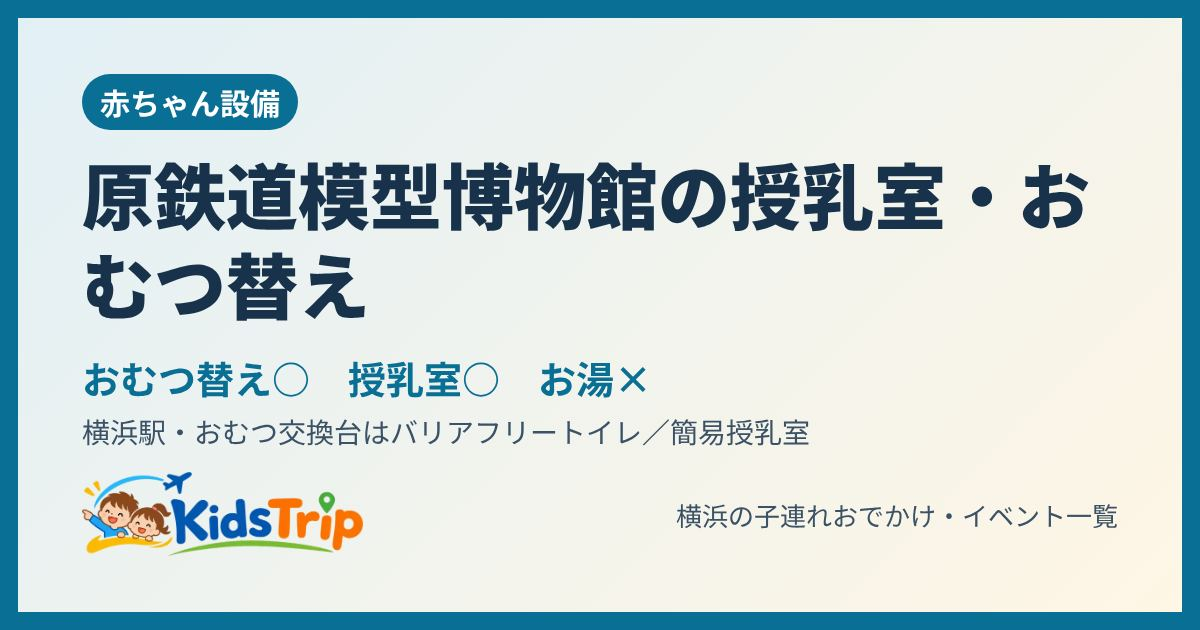
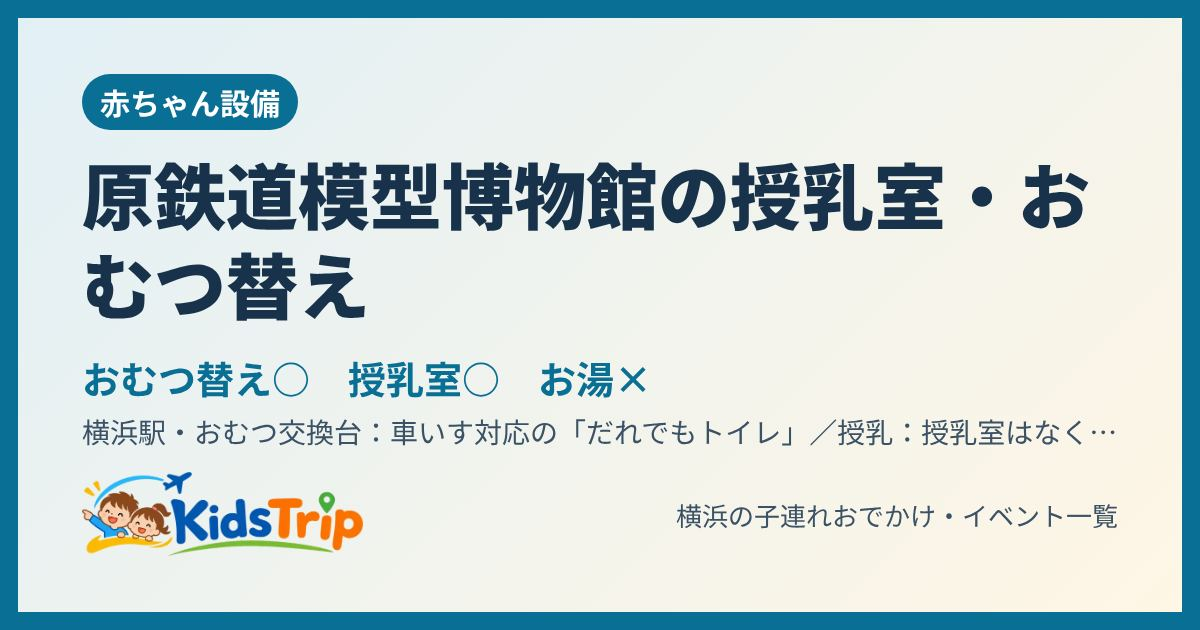
原鉄道模型博物館：簡易授乳スペース・だれでもトイレのおむつ交換台・ベビーキープを公式の画面で確認（利用者の画面）
Claude-Session: https://claude.ai/code/session_014AtJ2g3ghW1boxsW7syVwL

Changed region(s): [[0.3083, 0.6635, 0.74, 0.7238], [0.7708, 0.6635, 0.8942, 0.7238]]

diff --git a/spot/uxzm6a/index.html b/spot/uxzm6a/index.html
@@ -4,12 +4,12 @@
 <meta charset="utf-8">
 <meta name="viewport" content="width=device-width, initial-scale=1">
 <title>原鉄道模型博物館の授乳室・おむつ替え・お湯｜KidsTrip</title>
-<meta name="description" content="原鉄道模型博物館（横浜駅）の授乳室・おむつ替えの場所：おむつ交換台はバリアフリートイレ／簡易授乳室。おむつ替え・授乳室あり。">
+<meta name="description" content="原鉄道模型博物館（横浜駅）の授乳室・おむつ替えの場所：おむつ交換台：車いす対応の「だれでもトイレ」／授乳：授乳室はなく簡易授乳スペース（エントランスの赤いジャンパーのスタッフに声をかける）。おむつ替え・授乳室あり。">
 <link rel="canonical" href="https://kidstrip.jp/spot/uxzm6a/">
 <meta property="og:type" content="article">
 <meta property="og:site_name" content="KidsTrip">
 <meta property="og:title" content="原鉄道模型博物館の授乳室・おむつ替え・お湯｜KidsTrip">
-<meta property="og:description" content="原鉄道模型博物館（横浜駅）の授乳室・おむつ替えの場所：おむつ交換台はバリアフリートイレ／簡易授乳室。おむつ替え・授乳室あり。">
+<meta property="og:description" content="原鉄道模型博物館（横浜駅）の授乳室・おむつ替えの場所：おむつ交換台：車いす対応の「だれでもトイレ」／授乳：授乳室はなく簡易授乳スペース（エントランスの赤いジャンパーのスタッフに声をかける）。おむつ替え・授乳室あり。">
 <meta property="og:url" content="https://kidstrip.jp/spot/uxzm6a/">
 <meta property="og:image" content="https://kidstrip.jp/og/spot-uxzm6a.jpg">
 <meta property="og:image:width" content="1200">
@@ -21,7 +21,7 @@
 <link rel="icon" href="../../img/favicon.png">
 <link rel="apple-touch-icon" href="../../img/apple-touch-icon.png">
 <script type="application/ld+json">{"@context": "https://schema.org", "@type": "BreadcrumbList", "itemListElement": [{"@type": "ListItem", "position": 1, "name": "トップ", "item": "https://kidstrip.jp/"}, {"@type": "ListItem", "position": 2, "name": "ごはん・おむつ", "item": "https://kidstrip.jp/#foodall"}, {"@type": "ListItem", "position": 3, "name": "原鉄道模型博物館"}]}</script>
-<script type="application/ld+json">{"@context": "https://schema.org", "@type": "Place", "name": "原鉄道模型博物館", "description": "原鉄道模型博物館（横浜駅）の授乳室・おむつ替えの場所：おむつ交換台はバリアフリートイレ／簡易授乳室。おむつ替え・授乳室あり。", "url": "https://kidstrip.jp/spot/uxzm6a/", "image": ["https://kidstrip.jp/og/spot-uxzm6a.jpg"], "address": {"@type": "PostalAddress", "addressLocality": "横浜市", "addressRegion": "神奈川県", "addressCountry": "JP"}, "amenityFeature": [{"@type": "LocationFeatureSpecification", "name": "おむつ替え", "value": true}, {"@type": "LocationFeatureSpecification", "name": "授乳室", "value": true}, {"@type": "LocationFeatureSpecification", "name": "調乳のお湯", "value": false}], "publicAccess": true, "sameAs": "https://www.welcome.city.yokohama.jp/accessibility/spot/details.php?sid=773", "hasMap": "https://www.google.com/maps/search/?api=1&query=原鉄道模型博物館"}</script>
+<script type="application/ld+json">{"@context": "https://schema.org", "@type": "Place", "name": "原鉄道模型博物館", "description": "原鉄道模型博物館（横浜駅）の授乳室・おむつ替えの場所：おむつ交換台：車いす対応の「だれでもトイレ」／授乳：授乳室はなく簡易授乳スペース（エントランスの赤いジャンパーのスタッフに声をかける）。おむつ替え・授乳室あり。", "url": "https://kidstrip.jp/spot/uxzm6a/", "image": ["https://kidstrip.jp/og/spot-uxzm6a.jpg"], "address": {"@type": "PostalAddress", "addressLocality": "横浜市", "addressRegion": "神奈川県", "addressCountry": "JP"}, "amenityFeature": [{"@type": "LocationFeatureSpecification", "name": "おむつ替え", "value": true}, {"@type": "LocationFeatureSpecification", "name": "授乳室", "value": true}, {"@type": "LocationFeatureSpecification", "name": "調乳のお湯", "value": false}], "publicAccess": true, "sameAs": "https://www.hara-mrm.com/", "hasMap": "https://www.google.com/maps/search/?api=1&query=原鉄道模型博物館"}</script>
 <style>
 .gkcmp th[scope=row]{white-space:nowrap}.gkcmp td{font-size:.92em}
 .gk{list-style:none;padding:0}.gk li{border:1px solid #e5e5e5;border-radius:10px;padding:10px 12px;margin:8px 0;line-height:1.7}.gk h3{margin:0 0 2px;font-size:1.02em}
@@ -52,15 +52,15 @@ footer{margin:28px 0 8px;font-size:12px;color:var(--muted)}
 <h1>原鉄道模型博物館の授乳室・おむつ替え・お湯</h1>
 <table class="bm"><thead><tr><th>場所</th><th>おむつ替え</th><th>授乳室</th><th>お湯</th><th>レンジ</th></tr></thead><tbody><tr><th>原鉄道模型博物館</th><td class="y">○</td><td class="y">○</td><td class="n">×</td><td class="u">？</td></tr></tbody></table>
 <p class="legend">○ あり　× なし　？ 調べた範囲で確認できず</p>
-<table class="info"><tr><th>場所</th><td>おむつ交換台はバリアフリートイレ／簡易授乳室</td></tr><tr><th>エリア</th><td>横浜駅</td></tr></table>
-
-<p class="sum">調乳用のお湯とベビーカーの貸出・置き場はありません。</p>
-<p class="small">出典：横浜市観光情報サイト バリアフリー情報（2024年10月更新）</p>
-<div class="btns"><a class="btn main" data-act="official" href="https://www.welcome.city.yokohama.jp/accessibility/spot/details.php?sid=773" target="_blank" rel="noopener">公式ページで確認</a>
+<table class="info"><tr><th>場所</th><td>おむつ交換台：車いす対応の「だれでもトイレ」／授乳：授乳室はなく簡易授乳スペース（エントランスの赤いジャンパーのスタッフに声をかける）</td></tr><tr><th>エリア</th><td>横浜駅</td></tr></table>
+<ul class="chips"><li>ベビーキープ（トイレの個室）</li><li>だれでもトイレ（車いす対応・おむつ交換台つき）</li></ul>
+<p class="sum">館内に授乳室はなく、簡易授乳スペースを用意している。使いたいときはエントランスにいる赤いジャンパーのスタッフに声をかける。おむつ交換台は車いす対応の「だれでもトイレ」にあり、男女どちらでも使える。トイレの個室にベビーキープも。調乳用のお湯とベビーカーの貸出・置き場はない（市のバリアフリー情報）。電子レンジは公式ページに記載なし。</p>
+<p class="small">出典：原鉄道模型博物館 公式（営業情報・アクセス／施設案内。利用者が送った公式の画面、2026年11月）。お湯・ベビーカーは横浜市観光情報サイト バリアフリー情報（2024年10月更新）</p>
+<div class="btns"><a class="btn main" data-act="official" href="https://www.hara-mrm.com/" target="_blank" rel="noopener">公式ページで確認</a>
 <a class="btn" href="https://www.google.com/maps/search/?api=1&amp;query=原鉄道模型博物館" target="_blank" rel="noopener">地図で見る</a>
 <button type="button" class="btn" data-share="1">🔗 リンクを送る・コピー</button></div>
 </article>
-<h2>パパも使える？</h2><p><b>🚻 多機能トイレOK</b>　おむつ交換台はバリアフリートイレ（だれでも入れる）</p>
+<h2>パパも使える？</h2><p><b>🚻 多機能トイレOK</b>　おむつ交換台は車いす対応の「だれでもトイレ」（男女とも使える）</p>
 <h2>歩いて10分以内の子連れで入りやすいごはん</h2><ul class="links food"><li><b>鎌倉海街テーブル（そごう横浜 10F）</b>（和食）　ベビーカーで約5分<span class="tag">ボーネルンド監修キッズスペース</span><span class="tag">キッズスペース付き個室</span><span class="tag">駅直結</span></li><li><b>京都石塀小路 豆ちゃ 横浜（ルミネ横浜 7F）</b>（和食）　ベビーカーで約5分<span class="tag">半個室・BOX席</span><span class="tag">和食</span></li><li><b>ブリル飯店（ルミネ横浜 7F）</b>（中華）　ベビーカーで約5分<span class="tag">中華</span></li><li><b>ジャムおじさんのパン工場（アンパンマンこどもミュージアム 1F）</b>（キャラクターパン・カフェ）　ベビーカーで約6分<span class="tag">テイクアウト可</span><span class="tag">卵・乳不使用のパンあり（平日）</span><span class="tag">アレルギー28品目を表示</span></li><li><b>アンパンマンレストラン（アンパンマンこどもミュージアム）</b>（洋食レストラン）　ベビーカーで約6分<span class="tag">支払い：現金・クレジットカード（電子マネー・QRコードは使えない）</span><span class="tag">キッズメニュー</span><span class="tag">低アレルゲンのアンパンマンランチ1,200円（特定原材料8品目不使用）</span></li><li><b>ハンバーガーやさん（アンパンマンこどもミュージアム）</b>（ハンバーガー）　ベビーカーで約6分<span class="tag">支払い：現金・カード・電子マネー・QRコード</span><span class="tag">キッズメニュー</span><span class="tag">スーベニアプレート付きのバーガー3,000円</span></li><li><b>うどんやさん（アンパンマンこどもミュージアム）</b>（うどん）　ベビーカーで約6分<span class="tag">支払い：現金・カード・電子マネー・QRコード</span><span class="tag">キッズメニュー</span><span class="tag">持ち帰れるどんぶり付き</span></li><li><b>ごはんやさん（アンパンマンこどもミュージアム）</b>（和食・丼）　ベビーカーで約6分<span class="tag">支払い：現金・カード・電子マネー（QRコードは使えない）</span><span class="tag">子ども向けメニュー（おむすび・おかゆなど）</span><span class="tag">飲食は施設の中で</span></li><li><b>FOOD&amp;TIME ISETAN YOKOHAMA（ジョイナス地下1階）</b>（フードコート）　ベビーカーで約10分</li></ul><p class="small">時間はベビーカーで歩いたときのめやす（直線距離から計算）。メニューや営業時間は行く前にお店で確かめてください。</p>
 <h2>歩いて15分以内でベビー服・子ども服・靴が買えるお店</h2><ul class="links food"><li><a href="https://www.takashimaya.co.jp/yokohama/" target="_blank" rel="noopener">高島屋横浜店 6F ベビー・こども服フロア</a><span class="tag">ベビー・キッズ・子どもの靴</span>　10:00〜20:00（6階の学校制服は19:00最終受付。公式の営業時間ページ、利用者が送った画面で確認・2026年11月）　ベビーカーで約10分</li></ul><p class="small">急なおもらし・汚れの着替えや、靴を忘れたときに。時間は直線距離からのめやす。在庫・営業時間はお店で確かめてください（出典：各チェーン公式の店舗検索）。</p>
 <h2>同じエリアのほかの赤ちゃん設備</h2><table class="bm"><thead><tr><th>場所</th><th>おむつ替え</th><th>授乳室</th><th>お湯</th><th>レンジ</th></tr></thead><tbody><tr><th scope="row"><a href="/spot/1wazjhw/">横浜ポルタ</a></th><td class="y">○</td><td class="y">○</td><td class="u">？</td><td class="u">？</td></tr><tr><th scope="row"><a href="/spot/1iwprnc/">横浜ビブレ</a></th><td class="y">○</td><td class="y">○</td><td class="u">？</td><td class="u">？</td></tr><tr><th scope="row"><a href="/spot/1ixhw31/">ヨドバシ横浜</a></th><td class="y">○</td><td class="y">○</td><td class="y">○</td><td class="u">？</td></tr><tr><th scope="row"><a href="/spot/fviw25/">横浜スカイビル</a></th><td class="y">○</td><td class="u">？</td><td class="u">？</td><td class="u">？</td></tr><tr><th scope="row"><a href="/spot/1blkzom/">シァル横浜</a></th><td class="u">？</td><td class="y">○</td><td class="u">？</td><td class="u">？</td></tr><tr><th scope="row"><a href="/spot/14ws7oy/">横浜市民防災センター</a></th><td class="y">○</td><td class="y">○</td><td class="n">×</td><td class="u">？</td></tr><tr><th scope="row"><a href="/spot/1234fgp/">日産 グローバル本社ギャラリー</a></th><td class="y">○</td><td class="y">○</td><td class="y">○</td><td class="u">？</td></tr><tr><th scope="row"><a href="/spot/12zefgy/">横浜シティ・エア・ターミナル</a></th><td class="y">○</td><td class="n">×</td><td class="u">？</td><td class="u">？</td></tr><tr><th scope="row"><a href="/spot/ttyij6/">アソビル</a></th><td class="y">○</td><td class="y">○</td><td class="y">○</td><td class="u">？</td></tr><tr><th scope="row"><a href="/spot/14xdm7p/">横浜モアーズ</a></th><td class="y">○</td><td class="y">○</td><td class="y">○</td><td class="u">？</td></tr><tr><th scope="row"><a href="/spot/lg4yuc/">ニュウマン横浜</a></th><td class="y">○</td><td class="y">○</td><td class="n">×</td><td class="u">？</td></tr><tr><th scope="row"><a href="/spot/t7377s/">ルミネ横浜</a></th><td class="y">○</td><td class="y">○</td><td class="y">○</td><td class="y">○</td></tr><tr><th scope="row"><a href="/spot/1kkyo59/">そごう横浜店</a></th><td class="y">○</td><td class="y">○</td><td class="y">○</td><td class="u">？</td></tr><tr><th scope="row"><a href="/spot/17bif9m/">高島屋横浜店 6F</a></th><td class="y">○</td><td class="y">○</td><td class="y">○</td><td class="y">○</td></tr><tr><th scope="row"><a href="/spot/npxufp/">横浜ベイクォーター</a></th><td class="y">○</td><td class="y">○</td><td class="y">○</td><td class="y">○</td></tr><tr><th scope="row"><a href="/spot/14ubomp/">CeeU Yokohama</a></th><td class="u">？</td><td class="u">？</td><td class="u">？</td><td class="u">？</td></tr><tr><th scope="row"><a href="/spot/2xm8ap/">ジョイナス</a></th><td class="y">○</td><td class="y">○</td><td class="y">○</td><td class="u">？</td></tr></tbody></table><p class="legend">○ あり　× なし　？ 調べた範囲で確認できず</p>

diff --git a/js/data.js b/js/data.js
@@ -645,8 +645,8 @@ const BABY = {
       note:"1F・9F・10F・28F・29Fに、おむつ替えができるベビーベッドがある。授乳室・お湯・電子レンジ・ベビーカー貸出は公式ページに記載なし。授乳はそごう横浜店やポルタの授乳室で。8Fにポケモンセンターヨコハマ（2026年3月1日からマルイシティ横浜に代わってスカイビルの店に。10:30〜20:30・1月1日のほか無休。混む日は時間帯別の入場整理券を9:30から配布）・キデイランド・Sanrio・プリキュア プリティストアがある。", url:"https://www.yokohama-sky.co.jp/floorservice/", src:"横浜スカイビル 公式（フロアサービス・8Fフロアガイド）・ポケモンセンターヨコハマ 公式（2026年11月19日確認）" },
     { n:"シァル横浜（横浜駅ビル）", where:"ANNEX 3F 授乳室", d:null, f:true, w:null, ex:["多目的トイレ（B1・B3・ANNEX 3F）"],
       note:"授乳室はANNEX 3F。お湯・電子レンジ・おむつ替えの場所は公式ページに記載なし。", url:"https://www.jryscc.co.jp/cial/yokohama/service/", src:"シァル横浜 公式（営業時間等・2026年11月19日確認）" },
-    { n:"原鉄道模型博物館", where:"おむつ交換台はバリアフリートイレ／簡易授乳室", d:true, f:true, w:false, ex:[],
-      note:"調乳用のお湯とベビーカーの貸出・置き場はありません。", url:"https://www.welcome.city.yokohama.jp/accessibility/spot/details.php?sid=773", src:"横浜市観光情報サイト バリアフリー情報（2024年10月更新）" },
+    { n:"原鉄道模型博物館", where:"おむつ交換台：車いす対応の「だれでもトイレ」／授乳：授乳室はなく簡易授乳スペース（エントランスの赤いジャンパーのスタッフに声をかける）", d:true, f:true, w:false, ex:["ベビーキープ（トイレの個室）","だれでもトイレ（車いす対応・おむつ交換台つき）"],
+      note:"館内に授乳室はなく、簡易授乳スペースを用意している。使いたいときはエントランスにいる赤いジャンパーのスタッフに声をかける。おむつ交換台は車いす対応の「だれでもトイレ」にあり、男女どちらでも使える。トイレの個室にベビーキープも。調乳用のお湯とベビーカーの貸出・置き場はない（市のバリアフリー情報）。電子レンジは公式ページに記載なし。", url:"https://www.hara-mrm.com/", src:"原鉄道模型博物館 公式（営業情報・アクセス／施設案内。利用者が送った公式の画面、2026年11月）。お湯・ベビーカーは横浜市観光情報サイト バリアフリー情報（2024年10月更新）" },
     { n:"横浜市民防災センター", where:"おむつ交換台あり／授乳室あり", d:true, f:true, w:false, ex:["乳幼児用いす付きの個室","ベビーカー置き場あり"],
       note:"調乳用のお湯はありません。地震や火事を体験して学べる。", url:"https://www.welcome.city.yokohama.jp/accessibility/spot/details.php?sid=805", src:"横浜市観光情報サイト バリアフリー情報（2024年9月更新）" },
     { n:"日産 グローバル本社ギャラリー", where:"おむつ交換台は授乳室と多機能トイレに計2台／授乳室あり", d:true, f:true, w:true, ex:["乳幼児用いす付きの個室"],
@@ -849,7 +849,7 @@ const PAPA = {
   "野毛山動物園": { v:"men", t:"男性トイレ・バリアフリートイレにもおむつ交換台あり", src:"横浜市観光情報 バリアフリー情報（2026年8月更新）" },
   "パシフィコ横浜": { v:"men", t:"展示ホール2Fの赤ちゃん休憩室とmamaroは男女とも利用可。ノース1Fはおむつ交換台・シンクまで男性も入れる（授乳エリアは不可）。男性トイレにもおむつ交換台あり（市の情報）", src:"パシフィコ横浜 公式（2026年11月）・横浜市観光情報 バリアフリー情報（2024年11月更新）" },
   "はまぎん こども宇宙科学館（洋光台）": { v:"multi", t:"多目的トイレにおむつ交換台3台（だれでも入れる）", src:"横浜市観光情報 バリアフリー情報（2024年9月更新）" },
-  "原鉄道模型博物館": { v:"multi", t:"おむつ交換台はバリアフリートイレ（だれでも入れる）", src:"横浜市観光情報 バリアフリー情報（2024年10月更新）" },
+  "原鉄道模型博物館": { v:"multi", t:"おむつ交換台は車いす対応の「だれでもトイレ」（男女とも使える）", src:"原鉄道模型博物館 公式（2026年11月）" },
   "三菱みなとみらい技術館": { v:"women", t:"おむつ交換台は女性トイレとトイレの入口（入口の台はだれでも使えるかは未確認）", src:"横浜市観光情報 バリアフリー情報（2025年8月更新）" },
   "横浜ハンマーヘッド": { v:"room", t:"授乳室は男女兼用で、パパも調乳・おむつ替えができる（授乳専用コーナーは女性専用）。男性トイレの一部の個室にもおむつ交換台あり", src:"横浜ハンマーヘッド 公式（施設ガイド・2026年11月21日確認）・横浜市観光情報 バリアフリー情報" },
   "横浜港 大さん橋国際客船ターミナル": { v:"multi", t:"おむつ交換台はバリアフリートイレ（5台・だれでも入れる）", src:"横浜市観光情報 バリアフリー情報（2026年7月更新）" },

diff --git a/index.html b/index.html
@@ -754,7 +754,7 @@ section[id], div[id="events"] { scroll-margin-top: 56px; }
   </footer>
 </div>
 
-<script src="js/data.js?v=fcbf1f3a67" defer></script>
+<script src="js/data.js?v=7c99505120" defer></script>
 <script src="js/app.js?v=1e28e73a7b" defer></script>
 </body>
 </html>

diff --git a/tools/runs.md b/tools/runs.md
@@ -72,3 +72,4 @@
 | 2026-11-22 | 利用者との作業 | 22:30〜22:30 | 2 | Kアリーナ横浜：授乳室はLEVEL3メインホワイエのノースエントランス側、車椅子用トイレの階を横浜みなとみらい21のインタビュー記事（利用者が送ったURL）で確認して追加 |
 | 2026-11-22 | 利用者との作業 | 22:30〜22:30 | 1 | Kアリーナ横浜：託児施設はない（公式のよくある質問・利用者の情報）を追記 |
 | 2026-11-22 | 利用者との作業 | 22:34〜22:34 | 8 | みなとみらいの穴埋め：横浜美術館・よこはまコスモワールド・横浜みなと博物館（日本丸）を各公式で確認して差しかえ、クイーンズスクエアにパパの欄。日本丸はパパ「女性トイレのみ」→「多機能トイレOK」に訂正。英語版の表も合わせる |
+| 2026-11-22 | 利用者との作業 | 22:36〜22:36 | 2 | 原鉄道模型博物館：簡易授乳スペース（エントランスのスタッフに声かけ）・だれでもトイレのおむつ交換台・ベビーキープを公式の画面（利用者）で確認して差しかえ |
